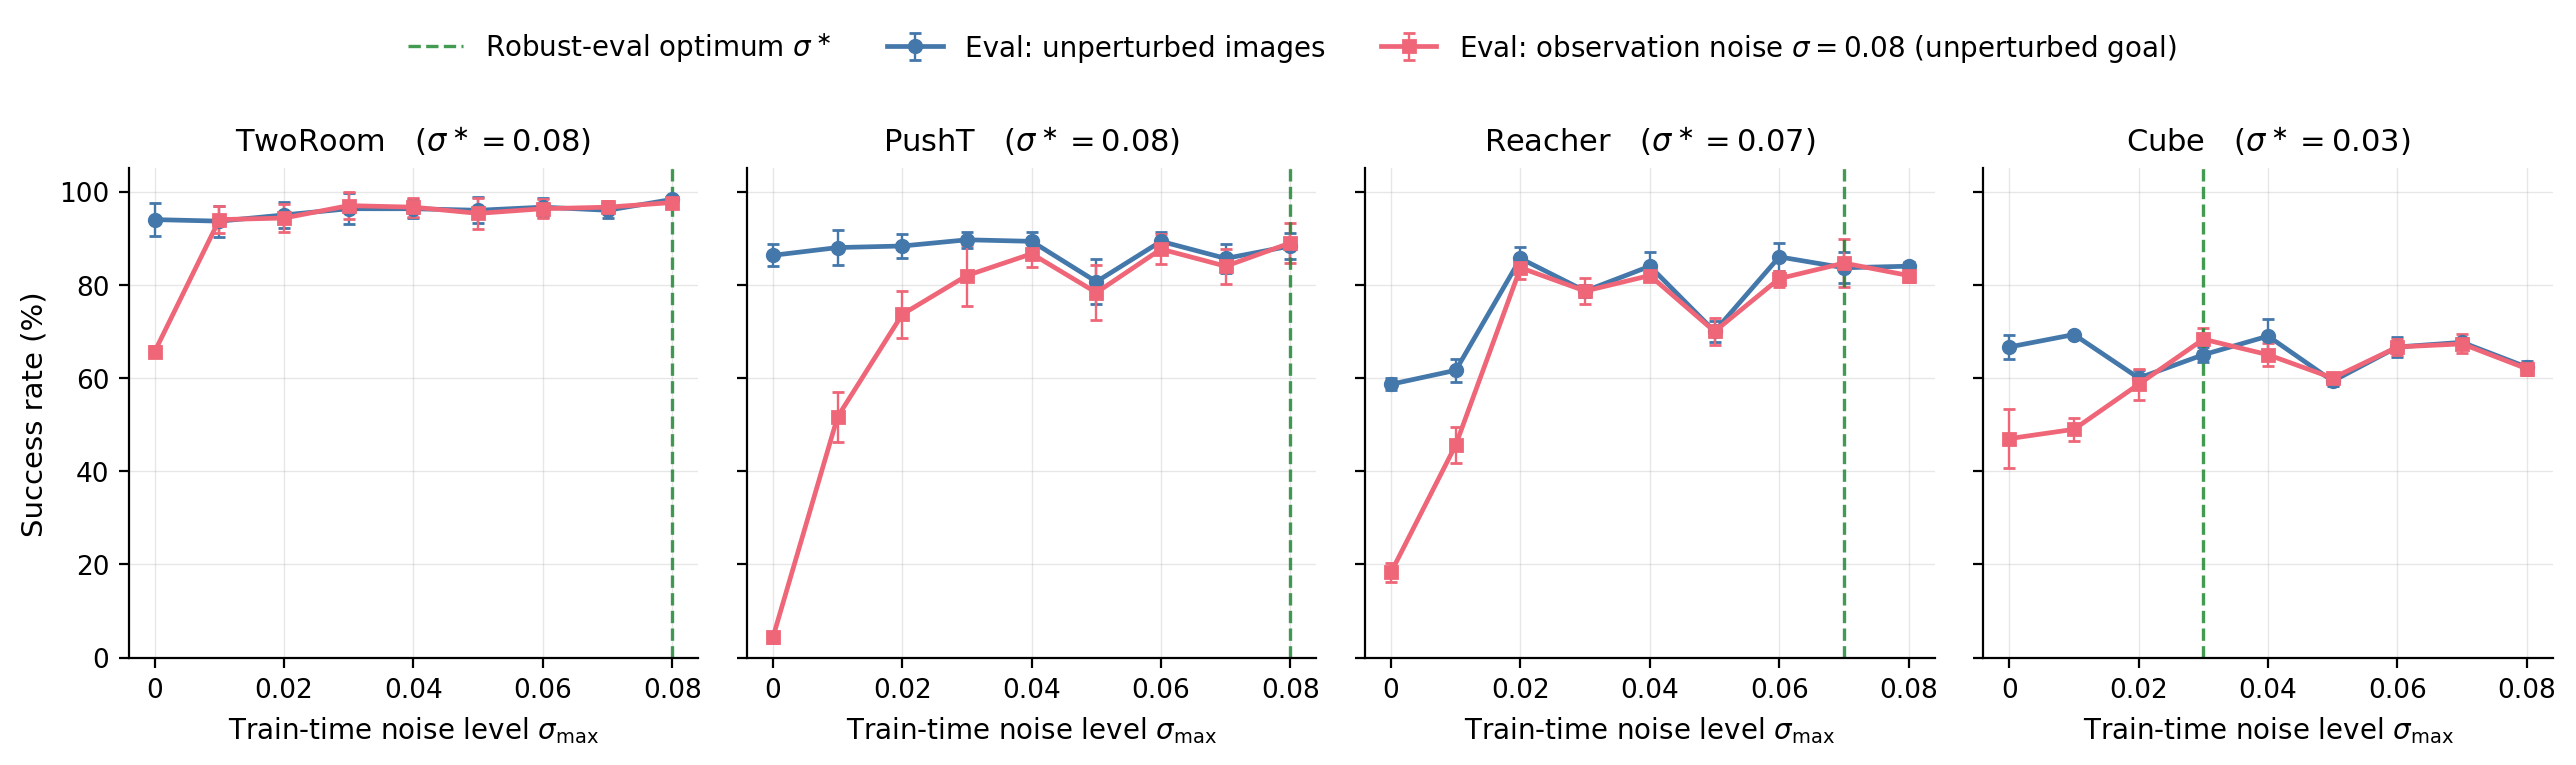
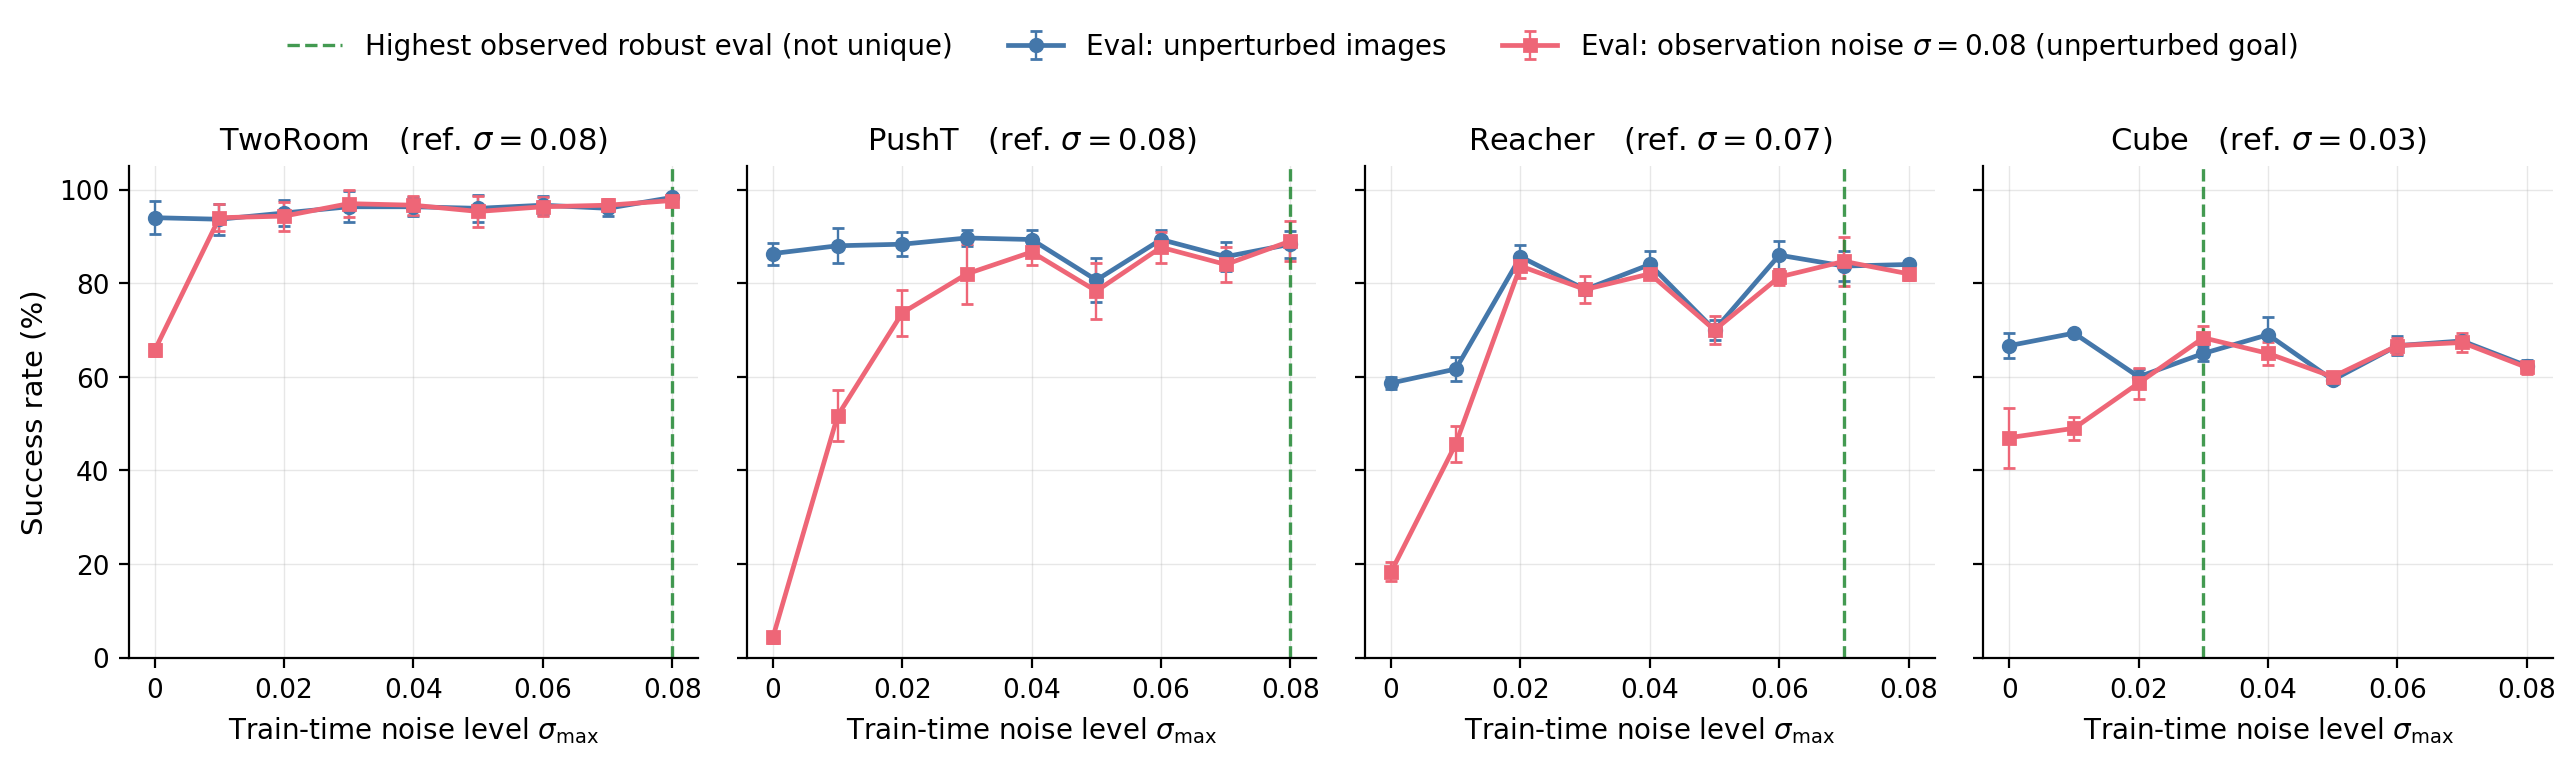
Clarify paper1 sweep figure labels

diff --git a/tools/paper1_figs.py b/tools/paper1_figs.py
@@ -99,7 +99,7 @@ def _load_canonical_evals() -> Dict:
 
 
 def _canonical_eval_tables() -> Dict[str, Dict]:
-    """Return sweep/base/point-best tables derived directly from canonical eval JSON."""
+    """Return sweep/base/high-observed tables derived directly from canonical eval JSON."""
     if _CANONICAL_TABLES_CACHE:
         return _CANONICAL_TABLES_CACHE
 
@@ -396,8 +396,8 @@ def fig2_sweep(out_path: Path):
         best_std = tables["corrupted_point_best"][t]["std"]
         ax.axvline(best_std, color="#228833", linestyle="--",
                    alpha=0.85, linewidth=1.2,
-                   label=r"Robust-eval optimum $\sigma^\ast$")
-        ax.set_title(rf"{t}   ($\sigma^\ast={best_std:.2f}$)", fontsize=11)
+                   label=r"Highest observed robust eval (not unique)")
+        ax.set_title(rf"{t}   (ref. $\sigma={best_std:.2f}$)", fontsize=11)
         ax.set_xlabel(r"Train-time noise level $\sigma_{\max}$", fontsize=10)
         ax.set_xticks([0, 0.02, 0.04, 0.06, 0.08])
         ax.set_xticklabels(["0", "0.02", "0.04", "0.06", "0.08"])
@@ -703,7 +703,7 @@ def fig6_pareto(out_path: Path):
             ax.scatter(x, y, s=55, marker=markers[task],
                        color=colors[task], alpha=0.55 + 0.05 * SWEEP_STDS[1:].index(s),
                        edgecolor="black", linewidth=0.3, zorder=3)
-        # mark observation-noise 0.08 point-best
+        # mark the highest observed observation-noise 0.08 grid point
         best_std = tables["corrupted_point_best"][task]["std"]
         if best_std in SWEEP_STDS:
             i = SWEEP_STDS.index(best_std)